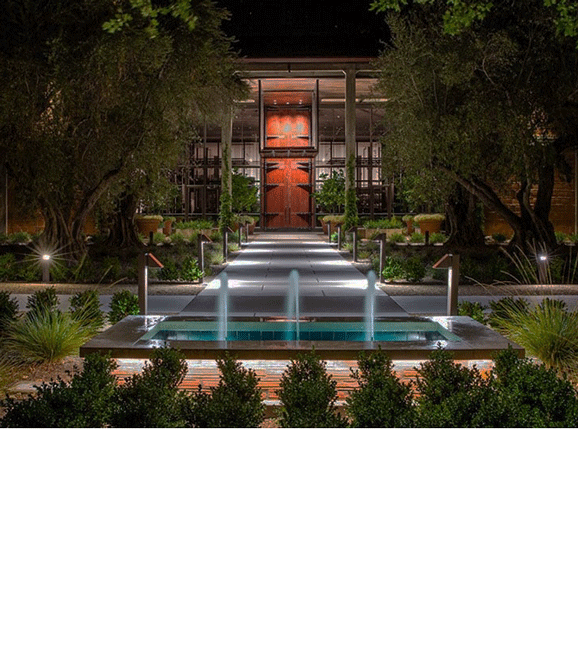
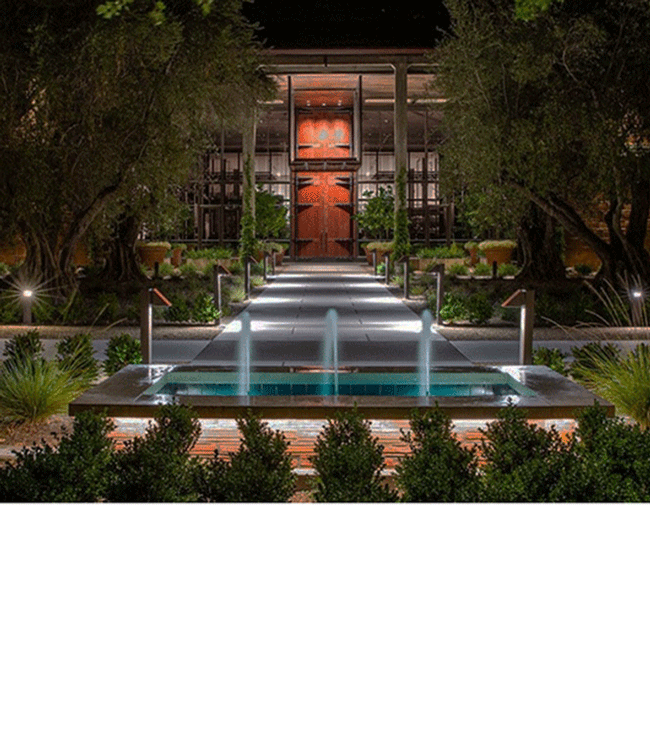
changed Caeser pairings and compressed web legacy photos for louis and orin

diff --git a/src/Cards/LaPlayaChardonnay.jsx b/src/Cards/LaPlayaChardonnay.jsx
@@ -48,7 +48,7 @@ const LaPlayaSB = () => {
                                     <div className={styles.miniBox1}>
                                         <h4>Pairing</h4> 
                                         <hr />
-                                        <h5 className={styles.pairing}>Pork / Salmon<br />Ceasar salad<br />Goat / Havarti cheese</h5>
+                                        <h5 className={styles.pairing}>Pork / Salmon<br />Caesar salad<br />Goat / Havarti cheese</h5>
                                     </div>
                                     <div className={styles.miniBox2}>
                                         <h4>Origin</h4>

diff --git a/src/Cards/JosephDrouhinChablis.jsx b/src/Cards/JosephDrouhinChablis.jsx
@@ -48,7 +48,7 @@ const JosephDrouhinChablis = () => {
                                     <div className={styles.miniBox1}>
                                         <h4>Pairing</h4> 
                                         <hr />
-                                        <h5 className={styles.pairing}>Lemon chicken<br />Ceasar salad<br />Shrimp</h5>
+                                        <h5 className={styles.pairing}>Lemon chicken<br />Caesar salad<br />Shrimp</h5>
                                     </div>
                                     <div className={styles.miniBox2}>
                                         <h4>Origin</h4>

diff --git a/src/Cards/MaggioPinot.jsx b/src/Cards/MaggioPinot.jsx
@@ -48,7 +48,7 @@ const MaggioPinot = () => {
                                     <div className={styles.miniBox1}>
                                         <h4>Pairing</h4> 
                                         <hr />
-                                        <h5 className={styles.pairing}>Chicken Ceasar<br />Beef<br />Feta cheese</h5>
+                                        <h5 className={styles.pairing}>Chicken Caesar<br />Beef<br />Feta cheese</h5>
                                     </div>
                                     <div className={styles.miniBox2}>
                                         <h4>Origin</h4>
